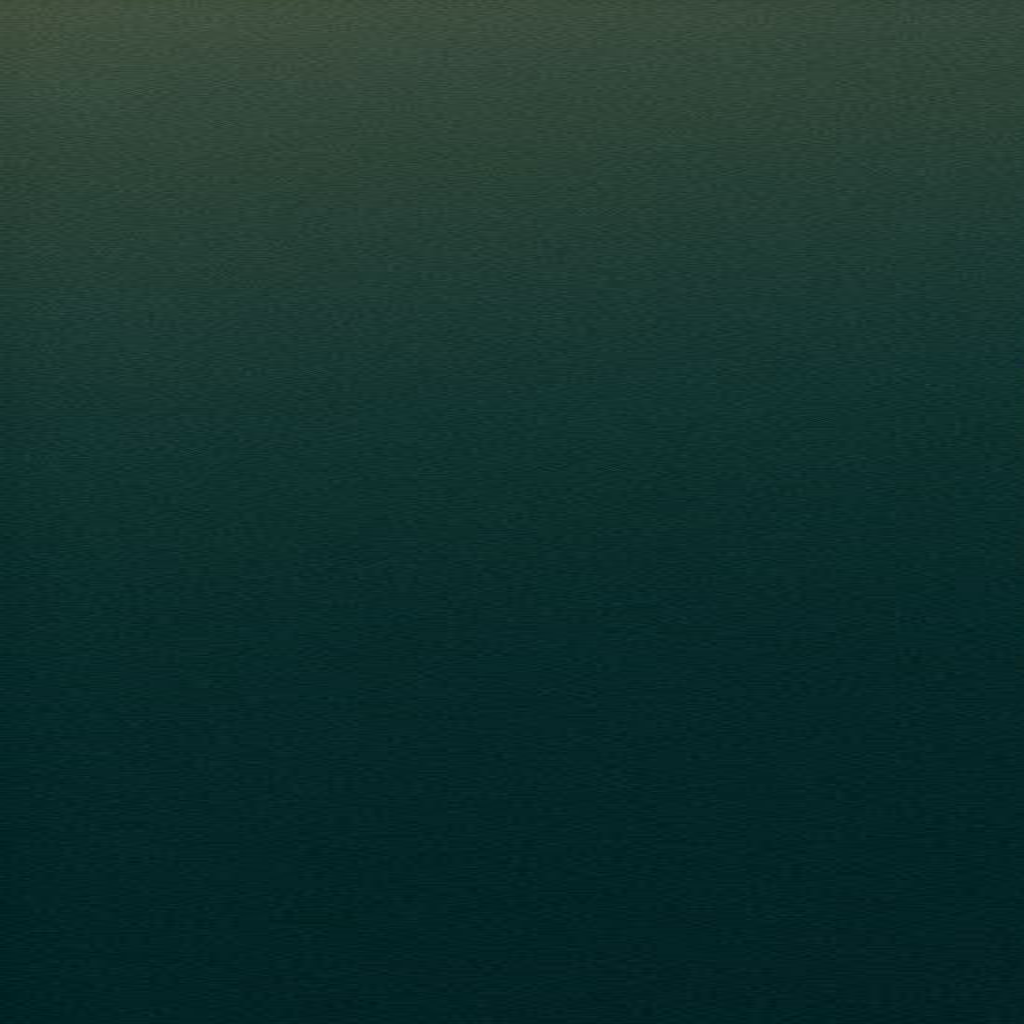
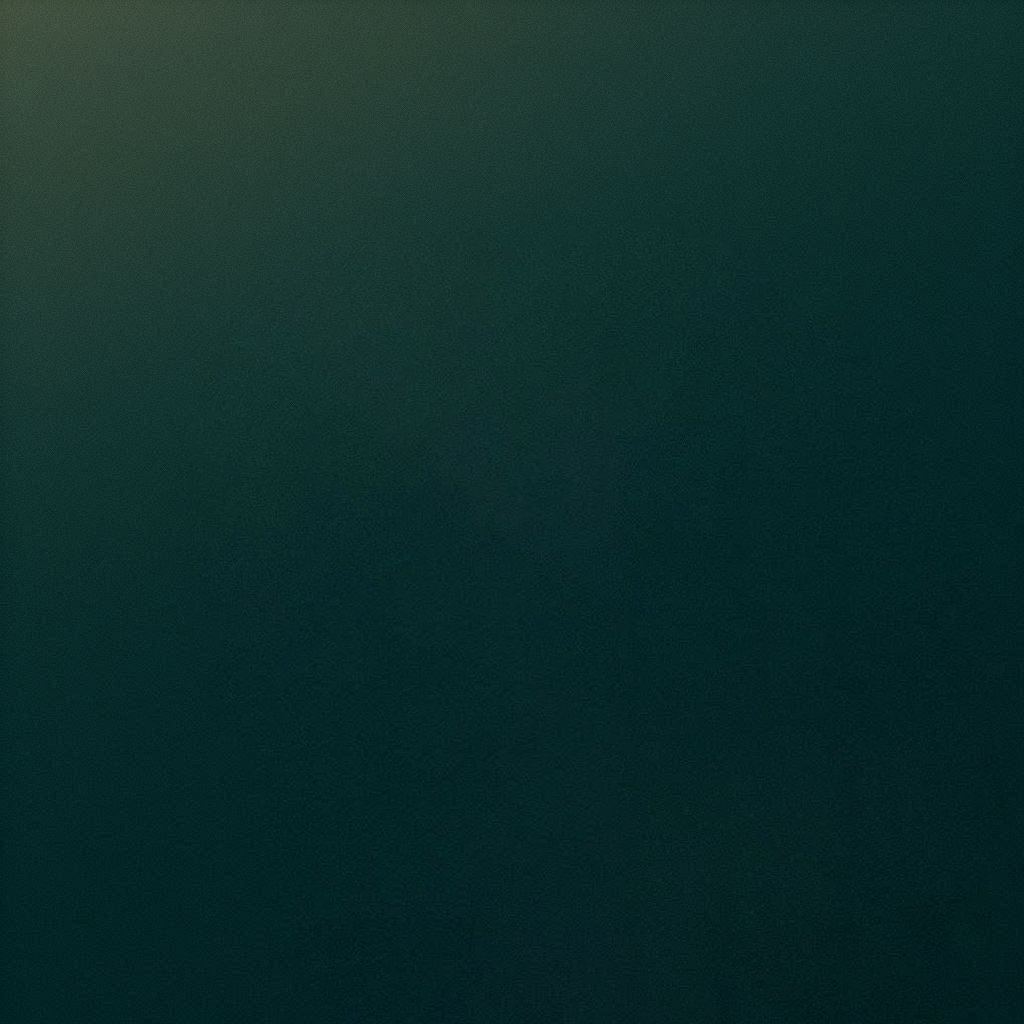
melhorias

Changed region(s): [[0.5, 0.0, 1.0, 0.2812]]

diff --git a/Growth/src/app/app.component.html b/Growth/src/app/app.component.html
@@ -6,15 +6,15 @@
           <ion-list-header>Menu</ion-list-header>
           <br>
 
-          <div id="Contas" style="text-align: center;">
+          <div id="Contas" style="text-align: center;cursor: pointer;">
             <ion-label style="display: flex; font-size: 14px;text-align: left;font-weight: bold;color: var(--ion-text-color); margin-bottom: 10px;">Saldo</ion-label>
             <div style="display: flex; justify-content: space-between; align-items: center;">
               <span style="font-size: 20px; font-weight: bold;">R$ ****</span>
-              <ion-icon name="eye-outline" style="cursor: pointer;"></ion-icon>
+              <ion-icon name="eye-outline" id="icone"></ion-icon>
             </div>
             <div id="Historico" style="display:flex; margin-top: 10px; text-align: left;">
               <ion-icon name="document-text-outline" style="vertical-align: middle;"></ion-icon>
-              <span style="cursor: pointer;">Histórico</span>
+              <span>Histórico</span>
             </div>
           </div>
 

diff --git a/Growth/src/app/app.component.scss b/Growth/src/app/app.component.scss
@@ -1,17 +1,21 @@
-ion-content {
-  --background: linear-gradient(170deg, #42513e , #0B3D2E , #022225);
+ion-content{
+  --background:url(../../assets/icon-background.png);
 }
 
 ion-list-header{
   --color: var(--ion-text-color);
 }
-
 ion-item{
   --background:  #0b3d2e00;
   --color: var(--ion-text-color);
 }
 #inbox-list {
   background:  #0b3d2e00;
+}
+#icone{
+  background: rgba(255, 255, 255, 0.1); 
+  padding: 5px;
+  border-radius: 50%;
 }
 #Contas {
   padding: 15px;
@@ -81,9 +85,8 @@ ion-menu.md ion-item.selected {
 }
 
 ion-menu.md ion-item.selected ion-icon {
-  color: var(--ion-color-primary);
+  color: #045D56;
 }
-
 ion-menu.md ion-item ion-icon {
   color: #6e6e6e;
 }

diff --git a/Growth/src/app/folder/folder.page.scss b/Growth/src/app/folder/folder.page.scss
@@ -1,3 +1,6 @@
+ion-content{
+  --background:url(../../../assets/icon-background.png);
+}
 
 ion-header {
   text-align: center;
@@ -5,7 +8,7 @@ ion-header {
 
 #Entrar {
   --background: #e3e3e3; /* Fundo do botão Entrar */
-  --color: var(--ion-background-color); /* Cor da letra (mesma cor do fundo do botão Criar) */
+  --color: #045D56; /* Cor da letra (mesma cor do fundo do botão Criar) */
 }
 #Entrar:hover {
   transition: 300ms;

diff --git a/Growth/src/global.scss b/Growth/src/global.scss
@@ -20,6 +20,9 @@
     margin-top: 15px; 
     margin-bottom: 15px; 
   }
+  .native-input.sc-ion-input-md {
+    padding-left: 10px;
+  }
   ion-button {
     --border: none;
     --border-radius: 8px;

diff --git a/Growth/src/app/cadastro/cadastro.page.scss b/Growth/src/app/cadastro/cadastro.page.scss
@@ -1,6 +1,6 @@
 #Cadastrar{
     --background: var(--ion-text-color);
-    --color: var(--ion-background-color);
+    --color: #045D56;
 }
 #Cadastrar:hover{
     --background: var(--dourado);
